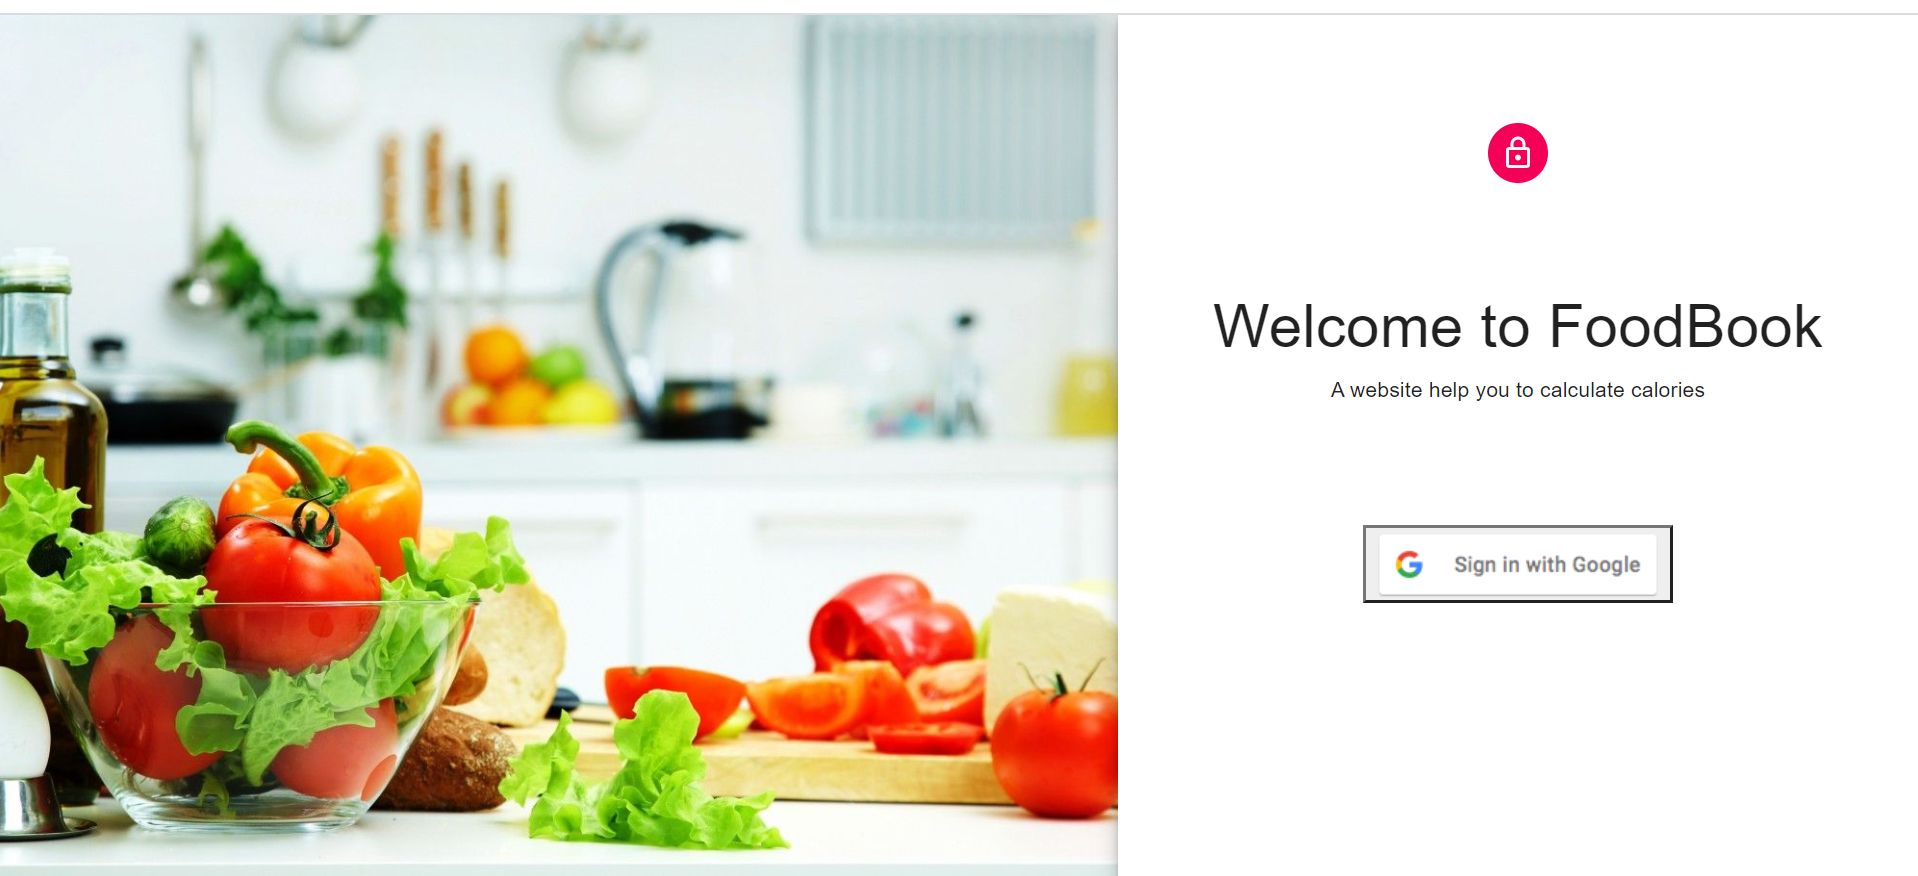
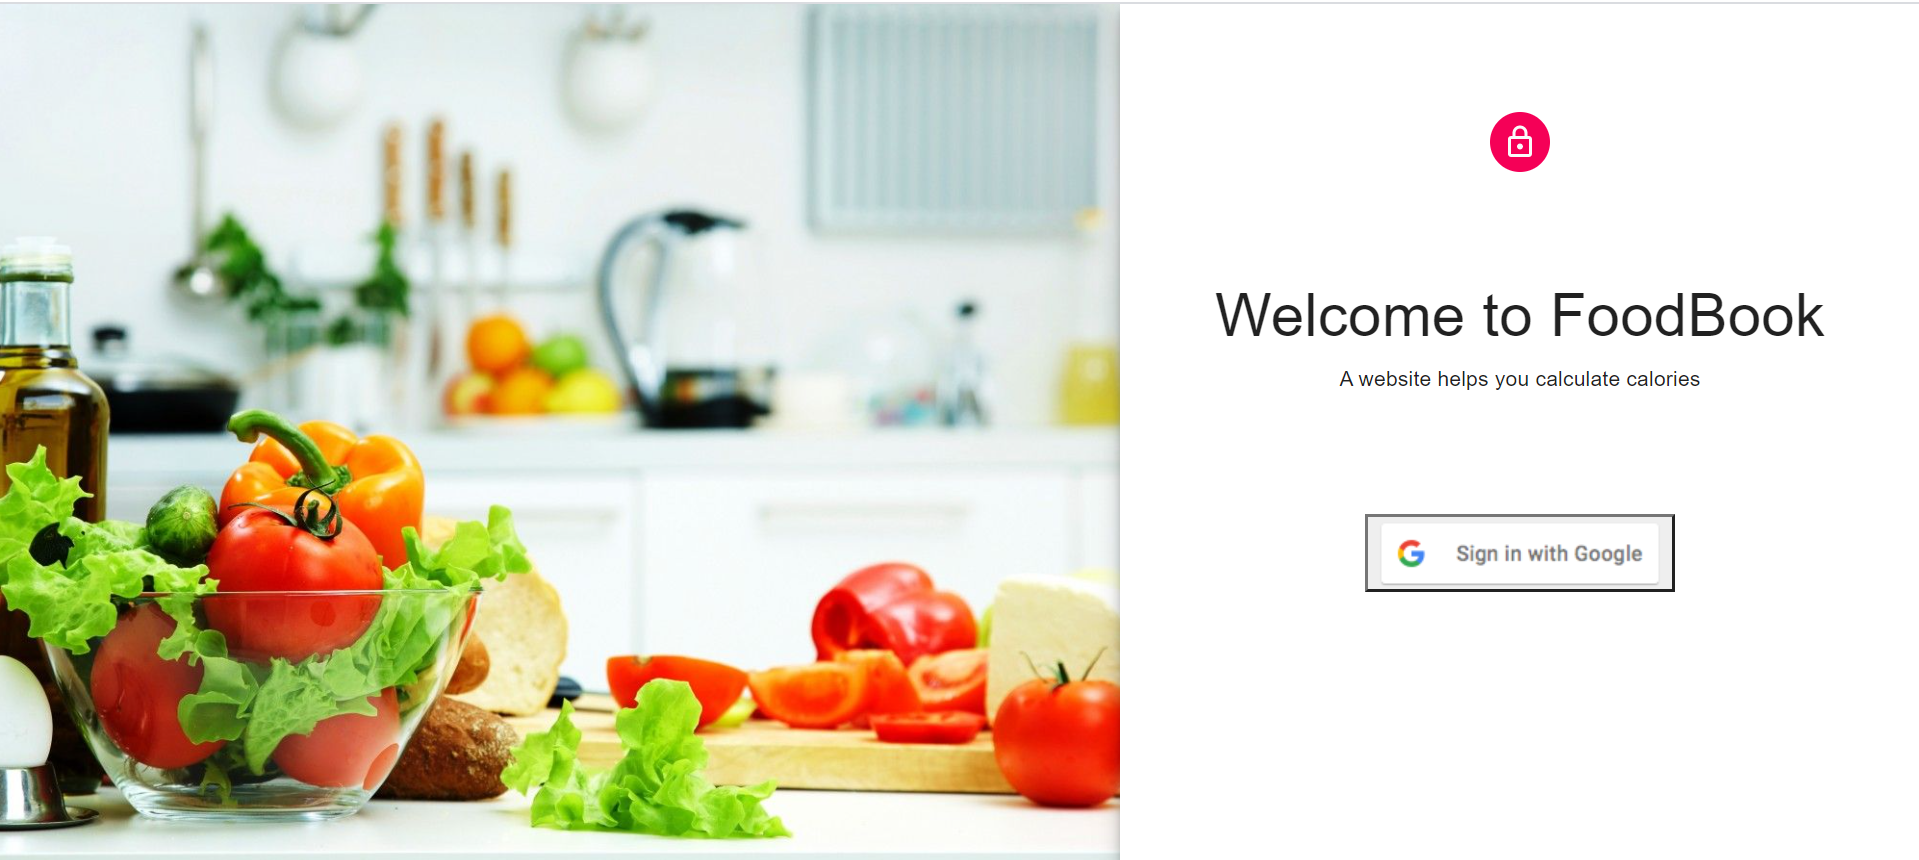
fixed text typo

diff --git a/ui/src/Signin.js b/ui/src/Signin.js
@@ -63,7 +63,7 @@ const Signin = () => {
         </div>
         <div className={classes.paper}>
             <h1>Welcome to FoodBook</h1> 
-            <p>A website help you to calculate calories</p>
+            <p>A website helps you calculate calories</p>
         </div>
 
         <div className={classes.paper}>
